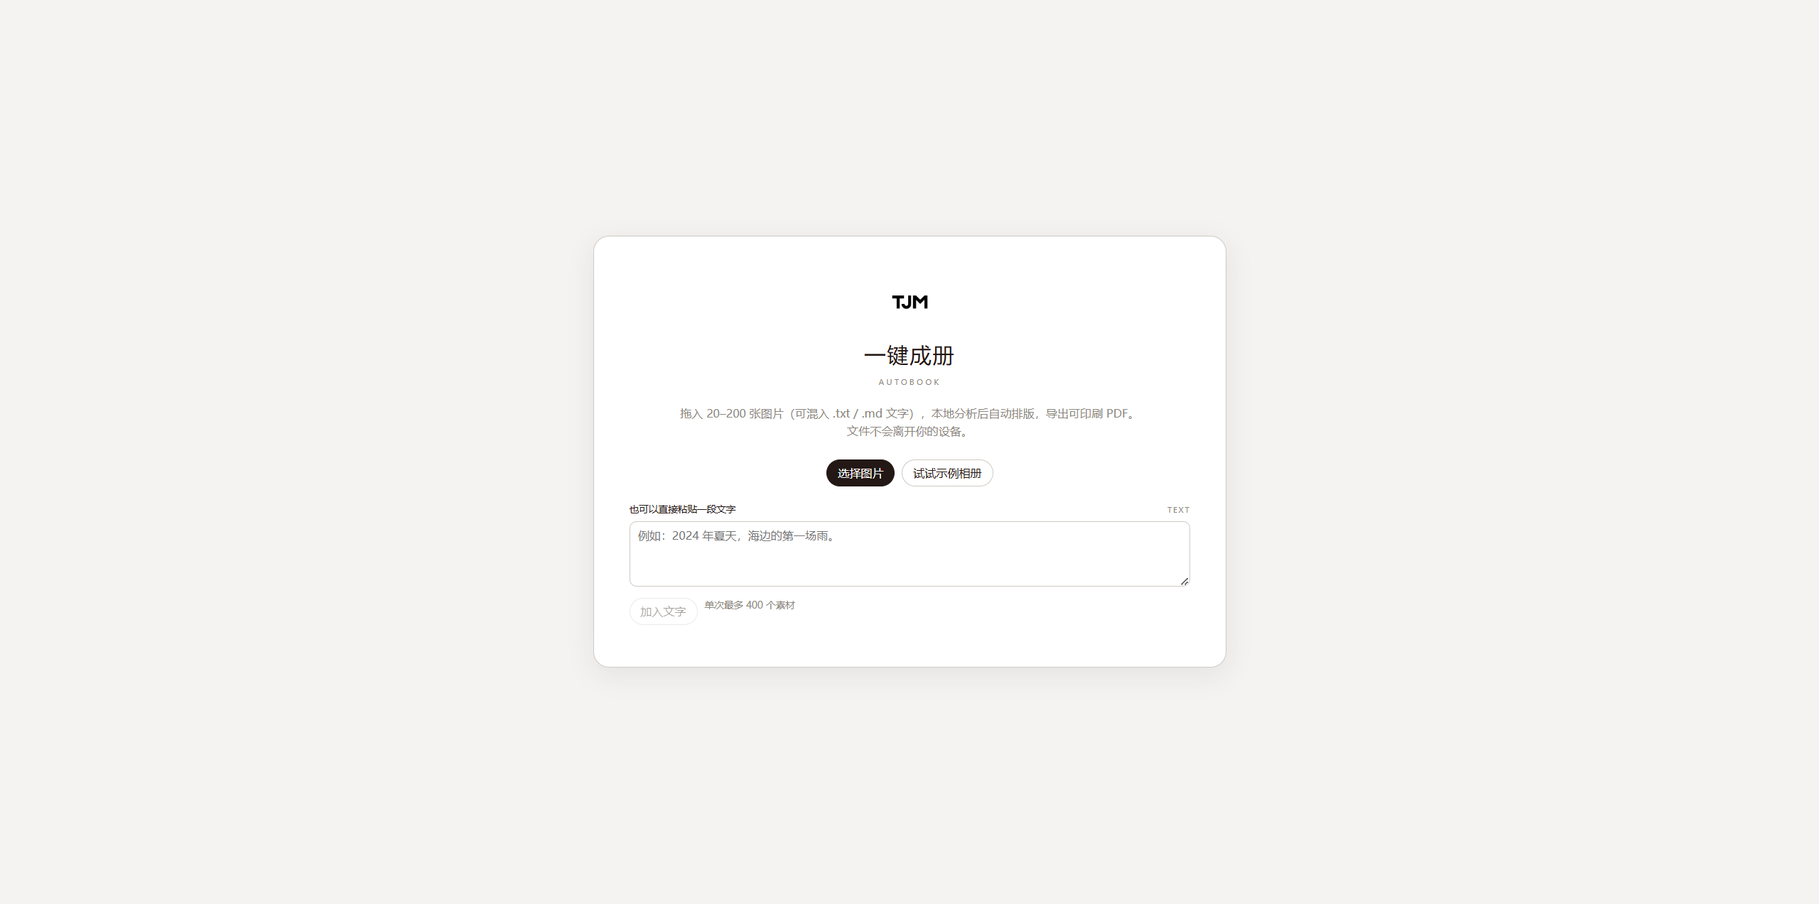
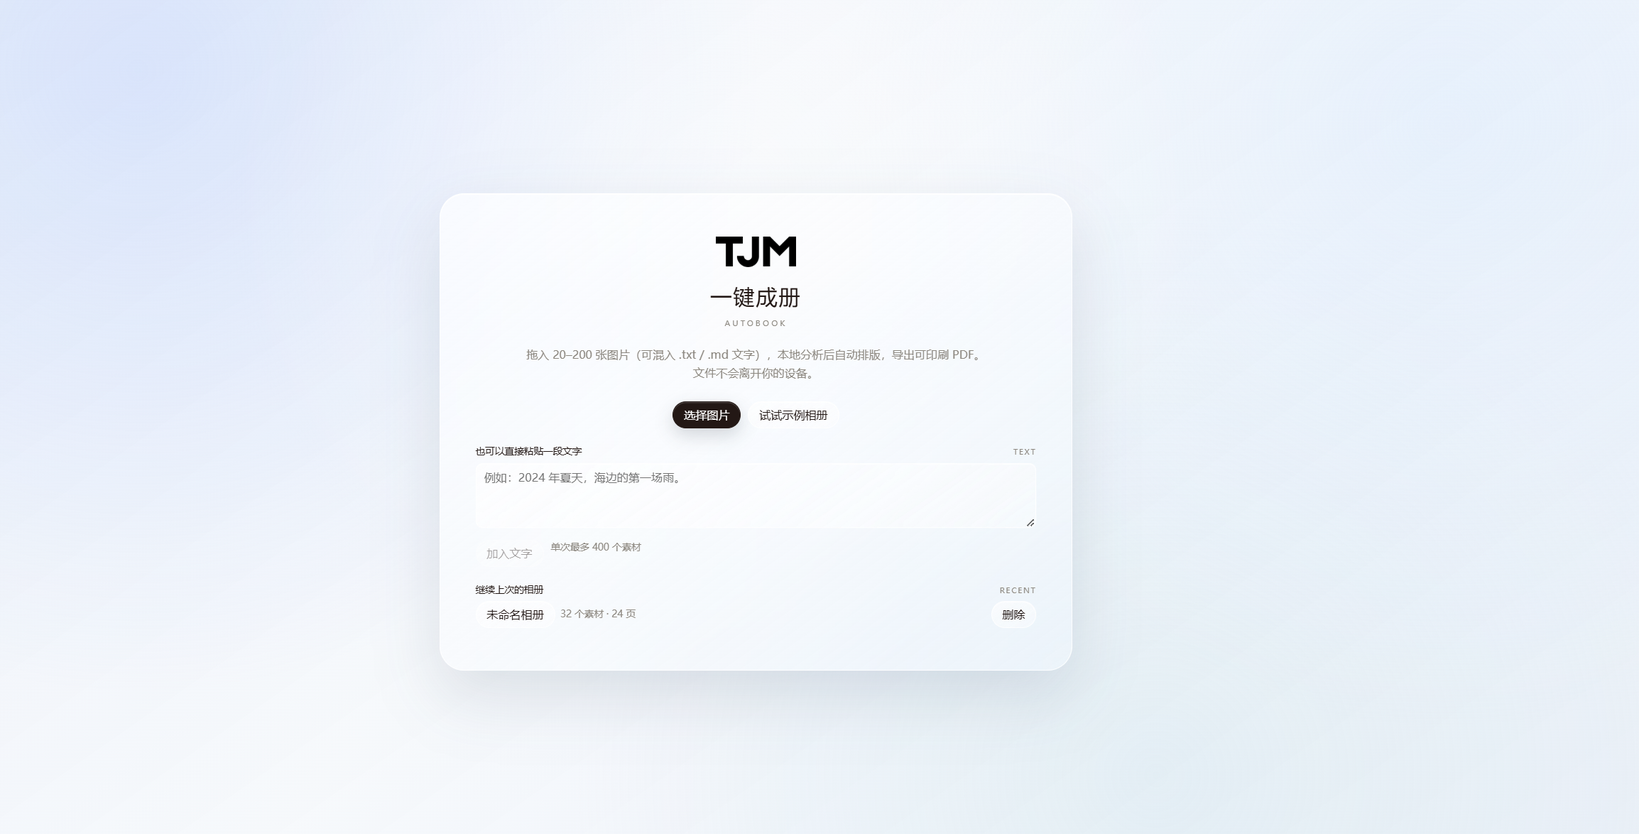
栏目统一优化

diff --git a/js/shared-sidebar.js b/js/shared-sidebar.js
@@ -1,0 +1,89 @@
+(function () {
+  "use strict";
+
+  var sourceScript = document.currentScript;
+  var siteRoot = sourceScript && sourceScript.src
+    ? new URL("../", sourceScript.src)
+    : new URL("./", location.href);
+  var styleId = "tjm-shared-sidebar-style";
+
+  function siteHref(path) {
+    return new URL(path, siteRoot).href;
+  }
+
+  function isOutsideMainSite() {
+    return location.href.indexOf(siteRoot.href) !== 0;
+  }
+
+  function activeSection() {
+    var explicit = document.body && document.body.getAttribute("data-sidebar-active");
+    if (explicit) return explicit;
+
+    var path = location.pathname.toLowerCase();
+    if (/workflow\.html$/.test(path)) return "workflow";
+    if (/video\.html$/.test(path)) return "videos";
+    if (/collections\.html$/.test(path)) return "annual";
+    if (/gallery\.html$/.test(path)) return "gallery";
+    if (/text\.html$/.test(path)) return "about";
+    if (/applied\.html$/.test(path)) return "applied";
+    return "all-works";
+  }
+
+  function linkClass(key, active) {
+    return "sidebar-link" + (key === active ? " active" : "");
+  }
+
+  function installStyle() {
+    if (document.getElementById(styleId)) return;
+    var link = document.createElement("link");
+    link.id = styleId;
+    link.rel = "stylesheet";
+    link.href = siteHref("css/shared-sidebar.css");
+    document.head.appendChild(link);
+  }
+
+  function render(root) {
+    root = root || document;
+    var inner = root.querySelector(".sidebar .sidebar-inner");
+    if (!inner || inner.getAttribute("data-shared-sidebar") === "ready") return false;
+
+    var active = activeSection();
+    var mainReturn = isOutsideMainSite();
+    var allWorks = siteHref(mainReturn ? "index.html?from=project#all-works" : "index.html#all-works");
+    var returnAttrs = mainReturn ? " data-main-return" : "";
+
+    inner.innerHTML =
+      '<a class="brand px-4 pt-5 pb-4" href="' + allWorks + '" data-preserve-preferences' + returnAttrs + '>' +
+        '<span class="brand-logo">TJM</span><strong>天将明</strong><small>視覺設計 × AI 應用</small>' +
+      '</a>' +
+      '<nav class="sidebar-menu-holder flex-grow-1 px-4" aria-label="主导航">' +
+        '<p class="nav-group">作品 <span>WORK</span></p>' +
+        '<a class="' + linkClass("all-works", active) + '" href="' + allWorks + '" data-preserve-preferences' + returnAttrs + '>所有作品 <small>ALL WORKS</small></a>' +
+        '<a class="' + linkClass("applied", active) + '" data-site-key="applied" href="https://tianming332.github.io/Applied-Brand-Desig_wed/" data-preserve-preferences>落地項目 <small>APPLIED SITE</small></a>' +
+        '<p class="nav-group mt-4">集合 <span>COLLECTIONS</span></p>' +
+        '<a class="' + linkClass("annual", active) + '" data-site-key="annual" href="' + siteHref("collections.html") + '" data-preserve-preferences>年度作品集 <small>PORTFOLIOS</small></a>' +
+        '<a class="' + linkClass("gallery", active) + '" data-gallery-nav href="' + siteHref("gallery.html") + '" data-preserve-preferences>画廊 <small>GALLERY</small></a>' +
+        '<a class="' + linkClass("videos", active) + '" data-site-key="videos" href="' + siteHref("video.html") + '" data-preserve-preferences><span data-i18n data-i18n-hans="AI视频" data-i18n-hant="AI视频" data-i18n-en="AI Video">AI视频</span> <small>VIDEO ARCHIVE</small></a>' +
+        '<a class="' + linkClass("workflow", active) + '" data-site-key="workflow" href="' + siteHref("workflow.html") + '" data-preserve-preferences><span data-i18n data-i18n-hans="工作流优化" data-i18n-hant="工作流優化" data-i18n-en="Workflow Optimization">工作流优化</span> <small>WORKFLOW</small></a>' +
+        '<p class="nav-group mt-4">信息 <span>INFO</span></p>' +
+        '<a class="' + linkClass("about", active) + '" href="' + siteHref("text.html") + '" data-preserve-preferences>關於我 <small>ABOUT</small></a>' +
+      '</nav>' +
+      '<div class="px-4 py-4 sidebar-note">VISUAL COMMUNICATION<br>ARTIFICIAL INTELLIGENCE</div>';
+
+    inner.setAttribute("data-shared-sidebar", "ready");
+    installStyle();
+    document.dispatchEvent(new CustomEvent("tjm:sidebar-rendered", { detail: { active: active } }));
+    return true;
+  }
+
+  window.TJMSharedSidebar = {
+    render: render,
+    siteRoot: siteRoot.href,
+    version: "2026-09-09"
+  };
+
+  installStyle();
+  if (!render() && document.readyState === "loading") {
+    document.addEventListener("DOMContentLoaded", function () { render(); }, { once: true });
+  }
+}());

diff --git a/video.html b/video.html
@@ -1,4 +1,4 @@
 <!doctype html><html lang="zh-CN"><head><meta charset="utf-8"><meta name="viewport" content="width=device-width,initial-scale=1"><title>AI视频 | 天将明作品集</title><link rel="stylesheet" href="vendor/bootstrap/css/bootstrap.min.css"><link rel="stylesheet" href="css/style.default.css"><link rel="stylesheet" href="css/custom.css"><link rel="shortcut icon" href="img/favicon.png"></head>
 <body data-title-hans="AI视频 | 天将明作品集" data-title-hant="AI视频 | 天將明作品集" data-title-en="AI Video | Tian Jiangming Portfolio"><aside class="sidebar"><div class="sidebar-inner d-flex flex-column"><a class="brand px-4 pt-5 pb-4" href="index.html#all-works"><span class="brand-logo">TJM</span><strong>天将明</strong><small>視覺設計 × AI 應用</small></a><nav class="sidebar-menu-holder flex-grow-1 px-4"><p class="nav-group">作品 <span>WORK</span></p><a class="sidebar-link" href="index.html#all-works">所有作品 <small>ALL WORKS</small></a><a class="sidebar-link" data-site-key="applied" href="https://tianming332.github.io/Applied-Brand-Desig_wed/">落地項目 <small>APPLIED SITE</small></a><p class="nav-group mt-4">集合 <span>COLLECTIONS</span></p><a class="sidebar-link" data-site-key="annual" href="collections.html">年度作品集 <small>PORTFOLIOS</small></a><a class="sidebar-link active" data-site-key="videos" href="video.html"><span data-i18n data-i18n-hans="AI视频" data-i18n-hant="AI视频" data-i18n-en="AI Video">AI视频</span> <small>VIDEO ARCHIVE</small></a><a class="sidebar-link" data-site-key="workflow" href="workflow.html"><span data-i18n data-i18n-hans="工作流优化" data-i18n-hant="工作流優化" data-i18n-en="Workflow Optimization">工作流优化</span> <small>WORKFLOW</small></a><p class="nav-group mt-4">信息 <span>INFO</span></p><a class="sidebar-link" href="text.html">關於我 <small>ABOUT</small></a></nav></div></aside>
 <main class="page-holder"><header class="mobile-header"><button class="navbar-toggler" type="button">菜單 / MENU</button><a href="index.html#all-works">天将明</a></header><section class="page-hero"><p class="eyebrow" data-i18n data-i18n-hans="AI视频 / VIDEO ARCHIVE" data-i18n-hant="AI视频 / VIDEO ARCHIVE" data-i18n-en="AI VIDEO ARCHIVE">AI视频 / VIDEO ARCHIVE</p><h1>影像實驗與生成式敘事</h1><p data-i18n data-i18n-hans="本页汇总实景拍摄、AI 改造、生成式动画与短片练习；点击下方卡片后，才会进入独立的 AI视频 影像站。" data-i18n-hant="本頁匯總實景拍攝、AI 改造、生成式動畫與短片練習；點擊下方卡片後，才會進入獨立的 AI视频 影像站。" data-i18n-en="This page brings together live-action footage, AI transformations, generative animation, and short-film studies. Open the card below to enter the standalone AI视频 archive.">本页汇总实景拍摄、AI 改造、生成式动画与短片练习；点击下方卡片后，才会进入独立的 AI视频 影像站。</p></section><section class="works-section"><div class="row g-4" id="videosGrid"></div></section><footer><span>© 天将明個人作品集</span><span>AI VIDEO ARCHIVE</span></footer></main>
-<script src="vendor/bootstrap/js/bootstrap.bundle.min.js"></script><script src="data/site-links.js"></script><script src="data/works.js"></script><script src="data/videos.js"></script><script src="js/site-render.js"></script><script src="js/front.js"></script></body></html>
+<script src="vendor/bootstrap/js/bootstrap.bundle.min.js"></script><script src="data/site-links.js"></script><script src="data/works.js"></script><script src="data/videos.js"></script><script src="js/site-render.js"></script><script src="js/shared-sidebar.js"></script><script src="js/front.js"></script></body></html>

diff --git a/css/shared-sidebar.css b/css/shared-sidebar.css
@@ -1,0 +1,88 @@
+/* Canonical left navigation shared by the portfolio home and detail sites. */
+.sidebar {
+  overflow:hidden;
+  isolation:isolate;
+  border-right-color:rgba(255,255,255,.78);
+  background:
+    radial-gradient(circle at 12% 8%,rgba(199,218,255,.34),transparent 30%),
+    radial-gradient(circle at 80% 88%,rgba(215,235,255,.26),transparent 34%),
+    linear-gradient(150deg,rgba(255,255,255,.84),rgba(239,244,250,.62));
+  -webkit-backdrop-filter:blur(28px) saturate(1.24);
+  backdrop-filter:blur(28px) saturate(1.24);
+  box-shadow:inset -1px 0 0 rgba(255,255,255,.72),14px 0 42px rgba(37,49,71,.09);
+}
+.sidebar::after {
+  content:"";
+  position:absolute;
+  z-index:-1;
+  inset:0;
+  background:linear-gradient(105deg,rgba(255,255,255,.22),transparent 46%);
+  pointer-events:none;
+}
+.sidebar-inner { background:transparent !important; }
+.sidebar-link {
+  margin:1px -9px;
+  padding:9px 9px;
+  border:1px solid transparent;
+  border-radius:12px;
+  background:transparent;
+  transition:color .2s ease,background .22s ease,border-color .22s ease,box-shadow .22s ease,transform .22s cubic-bezier(.2,.8,.2,1);
+}
+.sidebar-link small { transition:color .2s ease,opacity .2s ease; }
+.sidebar-link:hover,
+.sidebar-link:focus-visible {
+  color:var(--ink);
+  border-color:rgba(255,255,255,.76);
+  background:linear-gradient(135deg,rgba(255,255,255,.62),rgba(238,245,253,.30));
+  box-shadow:inset 0 1px 0 rgba(255,255,255,.88),0 8px 22px rgba(35,46,70,.10);
+  transform:translateX(4px);
+  outline:none;
+}
+.sidebar-link:hover small,
+.sidebar-link:focus-visible small { color:var(--ink); opacity:.72; }
+.sidebar-collapse,
+.sidebar-expand {
+  width:34px;
+  height:34px;
+  border:1px solid rgba(255,255,255,.82) !important;
+  border-radius:999px;
+  background:linear-gradient(135deg,rgba(255,255,255,.78),rgba(239,245,252,.50)) !important;
+  -webkit-backdrop-filter:blur(20px) saturate(1.24);
+  backdrop-filter:blur(20px) saturate(1.24);
+  box-shadow:inset 0 1px 0 rgba(255,255,255,.95),0 9px 24px rgba(35,46,70,.11);
+}
+body[data-theme="gray"] .sidebar {
+  border-right-color:color-mix(in srgb,var(--ink) 20%,transparent);
+  background:
+    radial-gradient(circle at 12% 8%,rgba(85,112,180,.17),transparent 32%),
+    radial-gradient(circle at 80% 88%,rgba(78,132,168,.13),transparent 36%),
+    rgba(200,200,196,.78);
+}
+body[data-theme="black"] .sidebar {
+  border-right-color:rgba(255,255,255,.13);
+  background:
+    radial-gradient(circle at 12% 8%,rgba(77,108,184,.20),transparent 32%),
+    radial-gradient(circle at 80% 88%,rgba(64,121,160,.14),transparent 36%),
+    rgba(14,14,14,.80);
+  box-shadow:inset -1px 0 0 rgba(255,255,255,.07),14px 0 42px rgba(0,0,0,.24);
+}
+body[data-theme="gray"] .sidebar-link:hover,
+body[data-theme="gray"] .sidebar-link:focus-visible {
+  border-color:rgba(255,255,255,.42);
+  background:linear-gradient(135deg,rgba(255,255,255,.34),rgba(225,233,245,.17));
+  box-shadow:inset 0 1px 0 rgba(255,255,255,.48),0 8px 22px rgba(24,31,45,.10);
+}
+body[data-theme="black"] .sidebar-link:hover,
+body[data-theme="black"] .sidebar-link:focus-visible {
+  color:#fff;
+  border-color:rgba(255,255,255,.16);
+  background:linear-gradient(135deg,rgba(255,255,255,.13),rgba(87,116,185,.08));
+  box-shadow:inset 0 1px 0 rgba(255,255,255,.15),0 9px 24px rgba(0,0,0,.22);
+}
+body[data-theme="black"] .sidebar-link:hover small,
+body[data-theme="black"] .sidebar-link:focus-visible small { color:#fff; }
+@supports not ((-webkit-backdrop-filter:blur(1px)) or (backdrop-filter:blur(1px))) {
+  .sidebar,.sidebar-collapse,.sidebar-expand {
+    background:color-mix(in srgb,var(--surface) 94%,#eef3f8) !important;
+  }
+}

diff --git a/applied.html b/applied.html
@@ -1,4 +1,4 @@
 <!doctype html><html lang="zh-CN"><head><meta charset="utf-8"><meta name="viewport" content="width=device-width,initial-scale=1"><title>落地项目 | 天将明作品集</title><link rel="stylesheet" href="vendor/bootstrap/css/bootstrap.min.css"><link rel="stylesheet" href="css/style.default.css"><link rel="stylesheet" href="css/custom.css"><link rel="shortcut icon" href="img/favicon.png"></head>
 <body data-title-hans="落地项目 | 天将明作品集" data-title-hant="落地項目 | 天將明作品集" data-title-en="Applied Projects | Tian Jiangming Portfolio"><aside class="sidebar"><div class="sidebar-inner d-flex flex-column"><a class="brand px-4 pt-5 pb-4" href="index.html#all-works"><span class="brand-logo">TJM</span><strong>天将明</strong><small>視覺設計 × AI 應用</small></a><nav class="sidebar-menu-holder flex-grow-1 px-4"><p class="nav-group">作品 <span>WORK</span></p><a class="sidebar-link" href="index.html#all-works">所有作品 <small>ALL WORKS</small></a><a class="sidebar-link active" data-site-key="applied" href="https://tianming332.github.io/Applied-Brand-Desig_wed/">落地項目 <small>APPLIED SITE</small></a><p class="nav-group mt-4">集合 <span>COLLECTIONS</span></p><a class="sidebar-link" data-site-key="annual" href="collections.html">年度作品集 <small>PORTFOLIOS</small></a><a class="sidebar-link" data-site-key="videos" href="video.html"><span data-i18n data-i18n-hans="AI视频" data-i18n-hant="AI视频" data-i18n-en="AI Video">AI视频</span> <small>VIDEO ARCHIVE</small></a><a class="sidebar-link" data-site-key="workflow" href="workflow.html"><span data-i18n data-i18n-hans="工作流优化" data-i18n-hant="工作流優化" data-i18n-en="Workflow Optimization">工作流优化</span> <small>WORKFLOW</small></a><p class="nav-group mt-4">信息 <span>INFO</span></p><a class="sidebar-link" href="text.html">關於我 <small>ABOUT</small></a></nav></div></aside>
 <main class="page-holder"><header class="mobile-header"><button class="navbar-toggler" type="button">菜單 / MENU</button><a href="index.html#all-works">天将明</a></header><section class="page-hero"><p class="eyebrow">落地項目 / APPLIED PROJECTS</p><h1>從概念到真實使用</h1><p>這裡匯總已上線、已實施或可體驗的項目。每個項目同時作為獨立作品出現在首頁，並以「已落地」角標標註。</p></section><section class="works-section"><div class="row g-4" id="appliedGrid"></div></section><footer><span>© 天将明個人作品集</span><span>APPLIED PROJECTS</span></footer></main>
-<script src="vendor/bootstrap/js/bootstrap.bundle.min.js"></script><script src="data/site-links.js"></script><script src="data/work-detail-links.js"></script><script src="data/work-translations.js"></script><script src="data/works.js"></script><script src="js/site-render.js"></script><script src="js/front.js"></script></body></html>
+<script src="vendor/bootstrap/js/bootstrap.bundle.min.js"></script><script src="data/site-links.js"></script><script src="data/work-detail-links.js"></script><script src="data/work-translations.js"></script><script src="data/works.js"></script><script src="js/site-render.js"></script><script src="js/shared-sidebar.js"></script><script src="js/front.js"></script></body></html>

diff --git a/collections.html b/collections.html
@@ -1,4 +1,4 @@
 <!doctype html><html lang="zh-CN"><head><meta charset="utf-8"><meta name="viewport" content="width=device-width,initial-scale=1"><title>年度作品集 | 天将明作品集</title><link rel="stylesheet" href="vendor/bootstrap/css/bootstrap.min.css"><link rel="stylesheet" href="css/style.default.css"><link rel="stylesheet" href="css/custom.css"><link rel="shortcut icon" href="img/favicon.png"></head>
 <body data-title-hans="年度作品集 | 天将明作品集" data-title-hant="年度作品集 | 天將明作品集" data-title-en="Annual Portfolios | Tian Jiangming Portfolio"><aside class="sidebar"><div class="sidebar-inner d-flex flex-column"><a class="brand px-4 pt-5 pb-4" href="index.html#all-works"><span class="brand-logo">TJM</span><strong>天将明</strong><small>視覺設計 × AI 應用</small></a><nav class="sidebar-menu-holder flex-grow-1 px-4"><p class="nav-group">作品 <span>WORK</span></p><a class="sidebar-link" href="index.html#all-works">所有作品 <small>ALL WORKS</small></a><a class="sidebar-link" data-site-key="applied" href="https://tianming332.github.io/Applied-Brand-Desig_wed/">落地項目 <small>APPLIED SITE</small></a><p class="nav-group mt-4">集合 <span>COLLECTIONS</span></p><a class="sidebar-link active" data-site-key="annual" href="collections.html">年度作品集 <small>PORTFOLIOS</small></a><a class="sidebar-link" data-site-key="videos" href="video.html"><span data-i18n data-i18n-hans="AI视频" data-i18n-hant="AI视频" data-i18n-en="AI Video">AI视频</span> <small>VIDEO ARCHIVE</small></a><a class="sidebar-link" data-site-key="workflow" href="workflow.html"><span data-i18n data-i18n-hans="工作流优化" data-i18n-hant="工作流優化" data-i18n-en="Workflow Optimization">工作流优化</span> <small>WORKFLOW</small></a><p class="nav-group mt-4">信息 <span>INFO</span></p><a class="sidebar-link" href="text.html">關於我 <small>ABOUT</small></a></nav></div></aside>
 <main class="page-holder"><header class="mobile-header"><button class="navbar-toggler" type="button">菜單 / MENU</button><a href="index.html#all-works">天将明</a></header><section class="page-hero"><p class="eyebrow">年度作品集 / ANNUAL PORTFOLIOS</p><h1>按年份回看完整作品集</h1><p>這裡保存年度作品集、PDF 或獨立網頁。單項作品請從「所有作品」瀏覽。</p></section><section class="works-section"><div class="row g-4" id="collectionsGrid"></div></section><footer><span>© 天将明個人作品集</span><span>ANNUAL PORTFOLIOS</span></footer></main>
-<script src="vendor/bootstrap/js/bootstrap.bundle.min.js"></script><script src="data/site-links.js"></script><script src="data/works.js"></script><script src="data/collections.js"></script><script src="js/site-render.js"></script><script src="js/front.js"></script></body></html>
+<script src="vendor/bootstrap/js/bootstrap.bundle.min.js"></script><script src="data/site-links.js"></script><script src="data/works.js"></script><script src="data/collections.js"></script><script src="js/site-render.js"></script><script src="js/shared-sidebar.js"></script><script src="js/front.js"></script></body></html>

diff --git a/text.html b/text.html
@@ -8,4 +8,4 @@
   <article><div class="profile-section-icon">▦</div><h3>辦公軟件</h3><ul><li>Microsoft Office</li><li>Google Code</li><li>Notebook</li><li>Teams</li></ul><h3 class="contact-subtitle">聯繫方式</h3><ul><li><a href="mailto:jiangmingtian332@gmail.com">jiangmingtian332@gmail.com</a></li><li><a href="tel:+8108058472883">+81 080-5847-2883</a></li></ul></article>
   <article><div class="profile-section-icon">AI</div><h3 data-i18n data-i18n-hans="AI 工具" data-i18n-hant="AI 工具" data-i18n-en="AI Tools">AI 工具</h3><ul><li>ChatGPT</li><li>GORK</li><li>即梦</li><li>VS Code</li><li>Cursor</li></ul></article>
 </div></section><footer><span>© 天将明個人作品集</span><span>ABOUT</span></footer></main>
-<script src="vendor/bootstrap/js/bootstrap.bundle.min.js"></script><script src="data/site-links.js"></script><script src="js/front.js"></script></body></html>
+<script src="vendor/bootstrap/js/bootstrap.bundle.min.js"></script><script src="data/site-links.js"></script><script src="js/shared-sidebar.js"></script><script src="js/front.js"></script></body></html>

diff --git a/index.html b/index.html
@@ -68,5 +68,5 @@
     <section class="works-section"><div class="row g-4" id="worksGrid"></div></section>
     <footer><span>© 天将明個人作品集</span><span>DESIGN × INTERACTION × AI</span></footer>
   </main>
-  <script src="vendor/bootstrap/js/bootstrap.bundle.min.js"></script><script src="data/site-links.js"></script><script src="data/work-detail-links.js"></script><script src="data/work-translations.js"></script><script src="data/works.js"></script><script src="js/site-render.js"></script><script src="js/front.js"></script><script src="js/welcome-network.js"></script>
+  <script src="vendor/bootstrap/js/bootstrap.bundle.min.js"></script><script src="data/site-links.js"></script><script src="data/work-detail-links.js"></script><script src="data/work-translations.js"></script><script src="data/works.js"></script><script src="js/site-render.js"></script><script src="js/shared-sidebar.js"></script><script src="js/front.js"></script><script src="js/welcome-network.js"></script>
 </body></html>

diff --git a/works/migraine-visual-A1/index.html b/works/migraine-visual-A1/index.html
@@ -89,7 +89,7 @@
     </div>
     <script src="../../vendor/bootstrap/js/bootstrap.bundle.min.js"></script>
     <script src="../../vendor/glightbox/js/glightbox.min.js"></script>
-    <script src="../../js/front.js"></script>
+    <script src="../../js/shared-sidebar.js"></script><script src="../../js/front.js"></script>
     <script>
       function injectSvgSprite(path) { var ajax = new XMLHttpRequest(); ajax.open("GET", path, true); ajax.send(); ajax.onload = function() { var div = document.createElement("div"); div.className = "d-none"; div.innerHTML = ajax.responseText; document.body.insertBefore(div, document.body.childNodes[0]); }; }
       injectSvgSprite("../../icons/orion-svg-sprite.svg");

diff --git a/works/migraine-visual-B1/index.html b/works/migraine-visual-B1/index.html
@@ -87,7 +87,7 @@
     </div>
     <script src="../../vendor/bootstrap/js/bootstrap.bundle.min.js"></script>
     <script src="../../vendor/glightbox/js/glightbox.min.js"></script>
-    <script src="../../js/front.js"></script>
+    <script src="../../js/shared-sidebar.js"></script><script src="../../js/front.js"></script>
     <script>
       function injectSvgSprite(path) { var ajax = new XMLHttpRequest(); ajax.open("GET", path, true); ajax.send(); ajax.onload = function() { var div = document.createElement("div"); div.className = "d-none"; div.innerHTML = ajax.responseText; document.body.insertBefore(div, document.body.childNodes[0]); }; }
       injectSvgSprite("../../icons/orion-svg-sprite.svg");

diff --git a/works/migraine-visual-C1/index.html b/works/migraine-visual-C1/index.html
@@ -92,7 +92,7 @@
     </div>
     <script src="../../vendor/bootstrap/js/bootstrap.bundle.min.js"></script>
     <script src="../../vendor/glightbox/js/glightbox.min.js"></script>
-    <script src="../../js/front.js"></script>
+    <script src="../../js/shared-sidebar.js"></script><script src="../../js/front.js"></script>
     <script>
       function injectSvgSprite(path) { var ajax = new XMLHttpRequest(); ajax.open("GET", path, true); ajax.send(); ajax.onload = function() { var div = document.createElement("div"); div.className = "d-none"; div.innerHTML = ajax.responseText; document.body.insertBefore(div, document.body.childNodes[0]); }; }
       injectSvgSprite("../../icons/orion-svg-sprite.svg");

diff --git a/works/migraine-visual-D1/index.html b/works/migraine-visual-D1/index.html
@@ -82,7 +82,7 @@
     </div>
     <script src="../../vendor/bootstrap/js/bootstrap.bundle.min.js"></script>
     <script src="../../vendor/glightbox/js/glightbox.min.js"></script>
-    <script src="../../js/front.js"></script>
+    <script src="../../js/shared-sidebar.js"></script><script src="../../js/front.js"></script>
     <script>
       function injectSvgSprite(path) { var ajax = new XMLHttpRequest(); ajax.open("GET", path, true); ajax.send(); ajax.onload = function() { var div = document.createElement("div"); div.className = "d-none"; div.innerHTML = ajax.responseText; document.body.insertBefore(div, document.body.childNodes[0]); }; }
       injectSvgSprite("../../icons/orion-svg-sprite.svg");

diff --git a/works/migraine-visual-K1/index.html b/works/migraine-visual-K1/index.html
@@ -67,7 +67,7 @@
     </div>
     <script src="../../vendor/bootstrap/js/bootstrap.bundle.min.js"></script>
     <script src="../../vendor/glightbox/js/glightbox.min.js"></script>
-    <script src="../../js/front.js"></script>
+    <script src="../../js/shared-sidebar.js"></script><script src="../../js/front.js"></script>
     <script>
       function injectSvgSprite(path) { var ajax = new XMLHttpRequest(); ajax.open("GET", path, true); ajax.send(); ajax.onload = function() { var div = document.createElement("div"); div.className = "d-none"; div.innerHTML = ajax.responseText; document.body.insertBefore(div, document.body.childNodes[0]); }; }
       injectSvgSprite("../../icons/orion-svg-sprite.svg");
